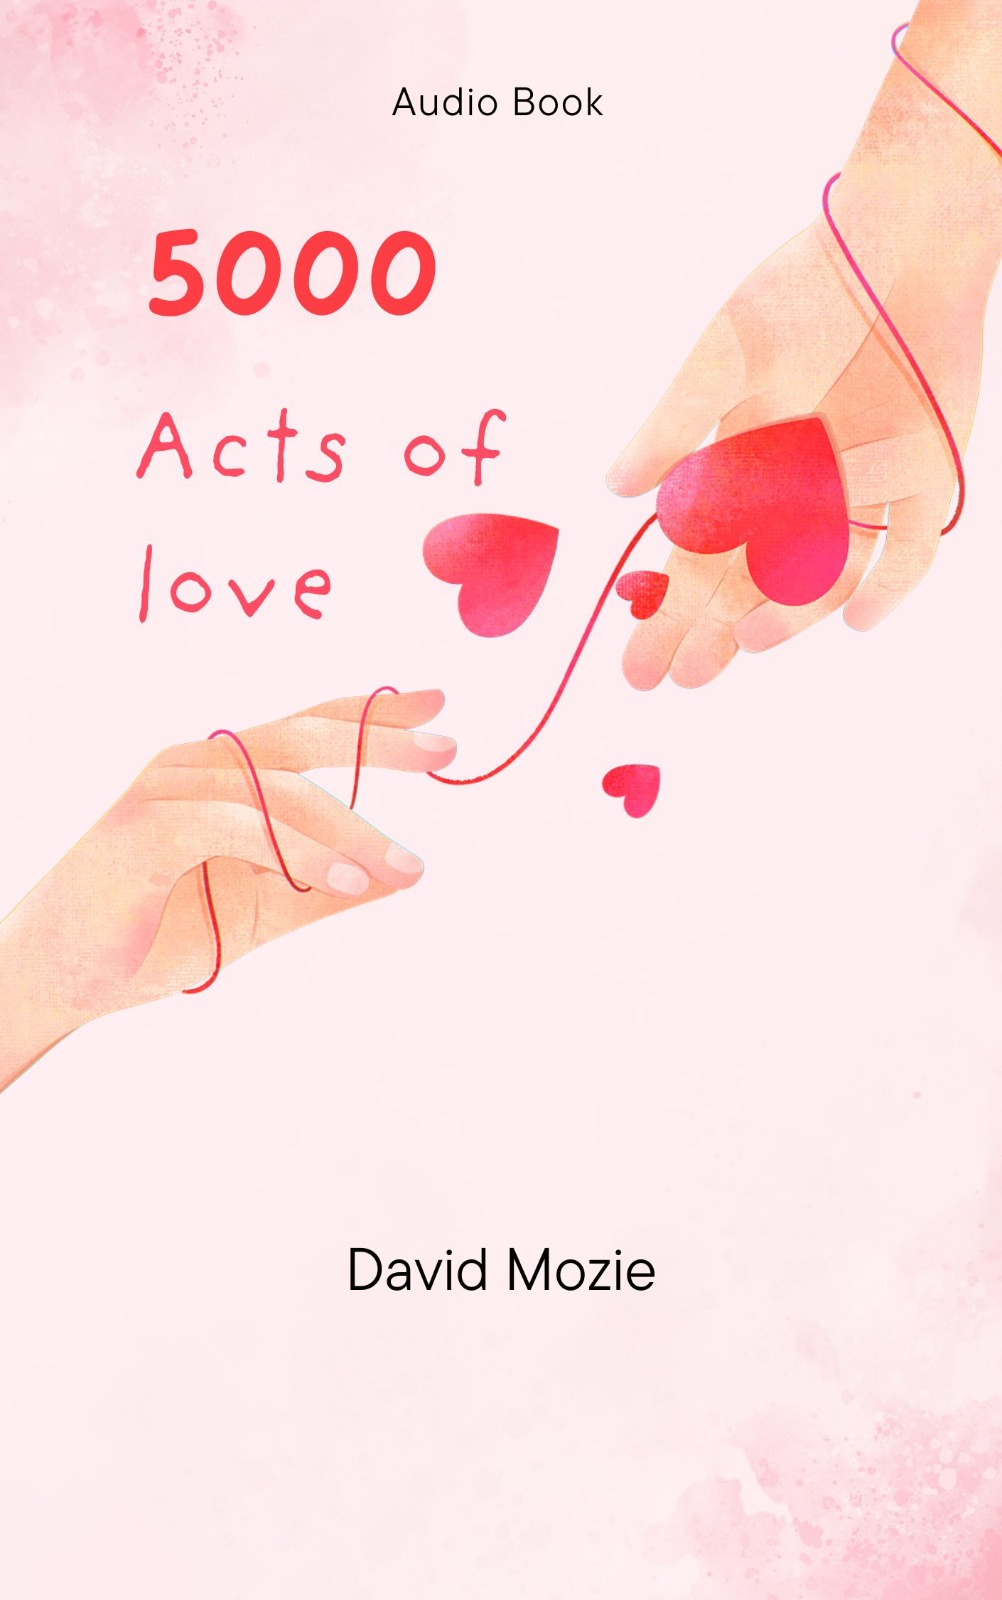
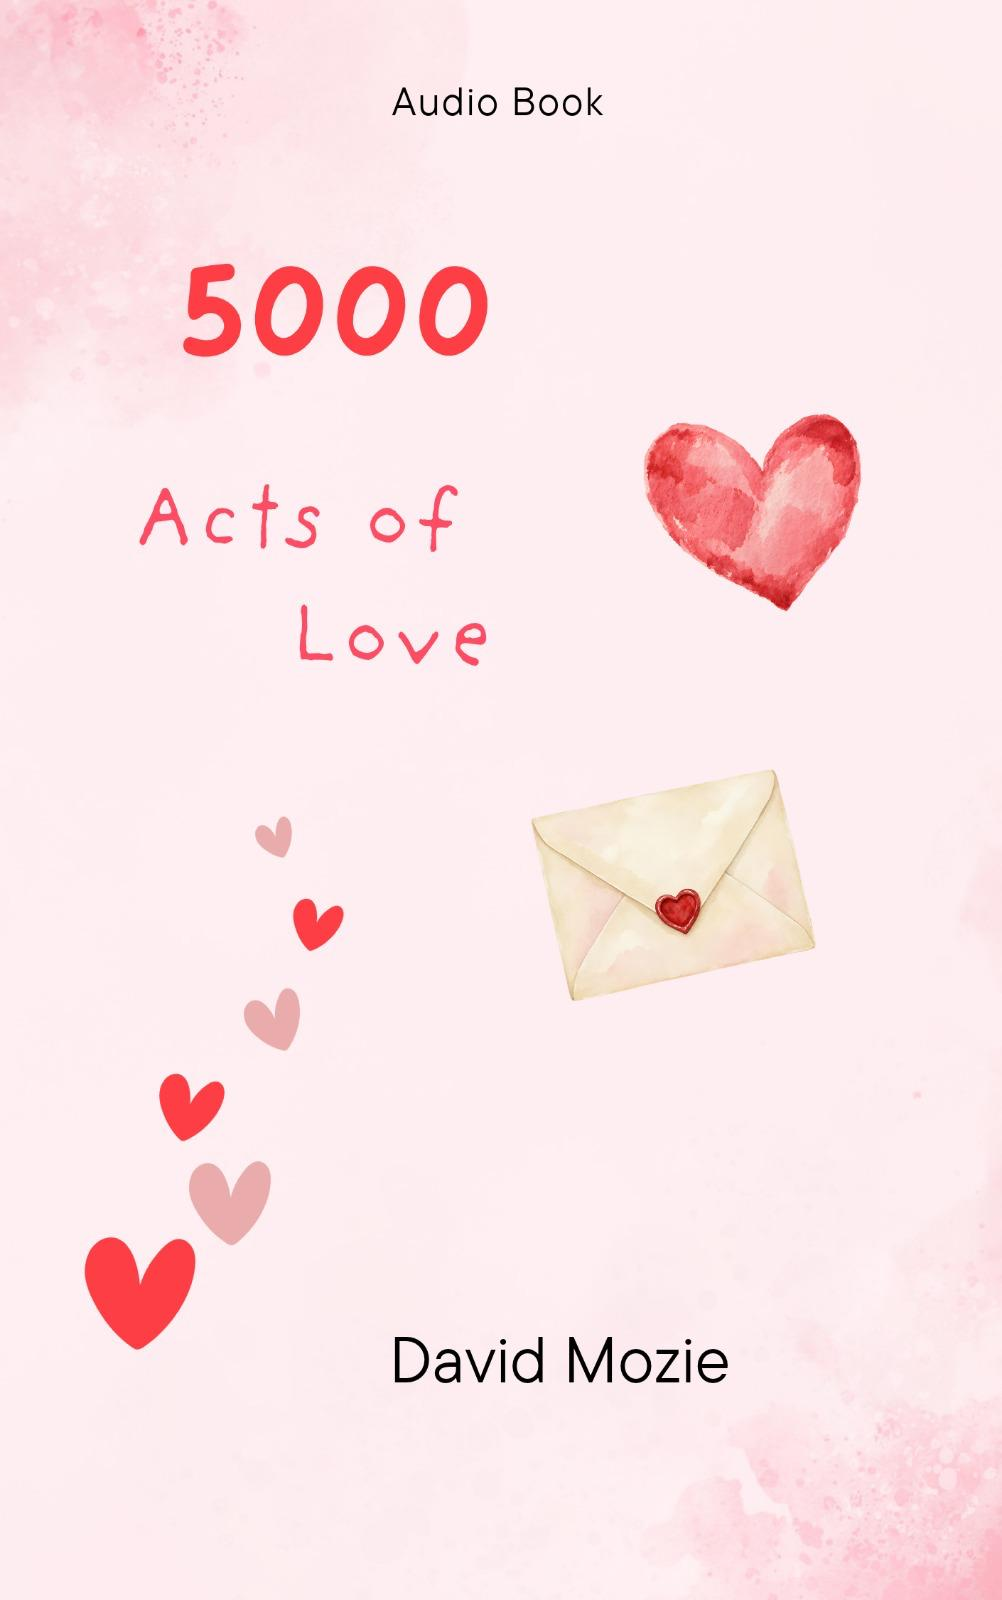
Add four more featured coming-soon titles by David Mozie
- Genius in the Dungeon, Star Among Thorns, In God's Hands and
  The Bank Manager join the Featured page as Coming soon.
- Refresh the 5000 Acts of Love cover artwork.
- Skip missing catalogue assets instead of failing the restore.

diff --git a/app/curated_catalog.py b/app/curated_catalog.py
@@ -12,10 +12,20 @@ COMING_SOON=[
      'synopsis':'A Story of a Struggling Boy. A fictional psychological thriller by David Mozie, and a novel of ambition, survival, identity and healing about the cost of success and the search for peace.'},
     {'slug':'5000-acts-of-love','title':'5000 Acts of Love','genre':('Romance','romance'),
      'synopsis':'An audiobook by David Mozie. More about this story is coming soon.'},
+    {'slug':'genius-in-the-dungeon','title':'Genius in the Dungeon','genre':('Fiction','fiction'),
+     'synopsis':'An audiobook by David Mozie. More about this story is coming soon.'},
+    {'slug':'star-among-thorns','title':'Star Among Thorns','genre':('Fiction','fiction'),
+     'synopsis':'An audiobook by David Mozie. More about this story is coming soon.'},
+    {'slug':'in-gods-hands','title':"In God's Hands",'genre':('Faith & Spirituality','faith-and-spirituality'),
+     'synopsis':'An audiobook by David Mozie. More about this story is coming soon.'},
+    {'slug':'the-bank-manager','title':'The Bank Manager','genre':('Non-fiction','non-fiction'),
+     'synopsis':'An audiobook by David Mozie. More about this story is coming soon.'},
 ]
 
 def copy_asset(app,book,folder,kind,filename,mime):
     source=Path(app.root_path)/'catalog_assets'/folder/filename
+    if not source.is_file():
+        return
     root=Path(app.config['MEDIA_ROOT']);root.mkdir(parents=True,exist_ok=True)
     key=folder+'-'+filename
     shutil.copyfile(source,root/key)
